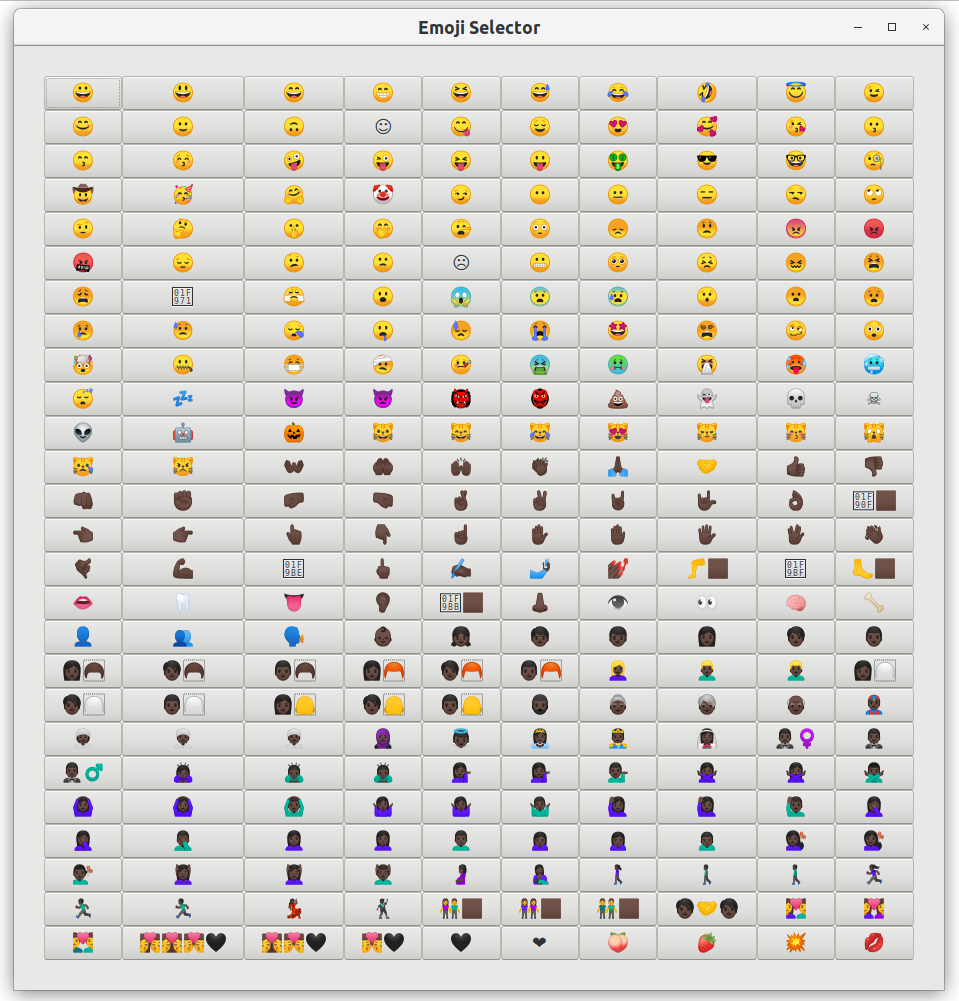
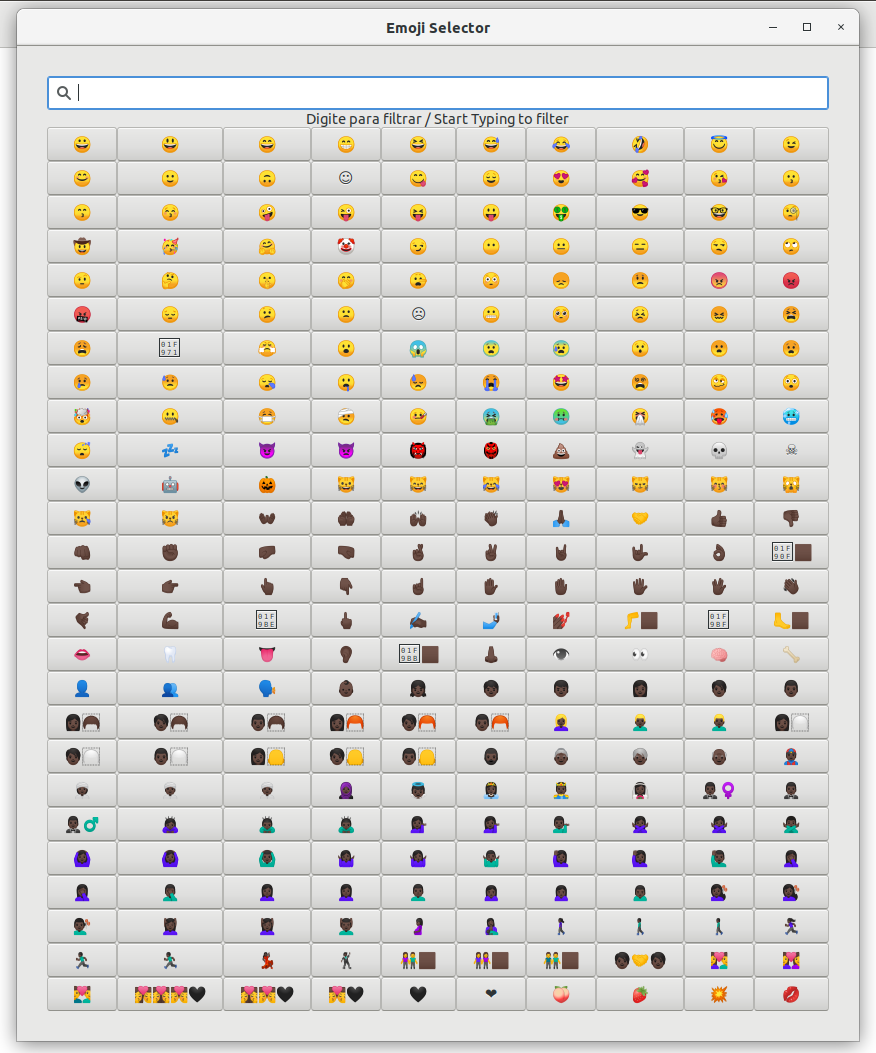
Adds TODO on README.md

Changed region(s): [[0.0, 0.0, 0.9863, 0.991]]

diff --git a/emojiSelector.c b/emojiSelector.c
@@ -1,5 +1,11 @@
 #include <gtk/gtk.h>
 
+typedef struct
+{
+    char emojiCode[27];
+    char description[256];
+} emoji;
+
 GtkClipboard *clipboard;
 
 static void
@@ -7,36 +13,28 @@ copy_to_clipboard (GtkWidget *widget,
                    gpointer   data)
 {
   gtk_clipboard_set_text (clipboard, (gchar *) data, -1);
-  g_print ("Copied %s  to clipboard\n", (gchar *) data);
-}
-
-static gboolean
-window_key_press_event_cb (GtkWidget *window,
-    GdkEvent *event,
-    GtkSearchBar *search_bar)
-{
-  return gtk_search_bar_handle_event (search_bar, event);
+  g_message ("Copied %s  to clipboard\n", (gchar *) data);
 }
 
 static void
-search_changed (GtkSearchEntry *entry,
-                   GtkLabel       *result_label)
+filter_results (GtkSearchEntry *entry,
+                GtkLabel       *result_label)
 {
   const char *text;
   text = gtk_entry_get_text (GTK_ENTRY (entry));
-  g_message ("search changed: %s", text);
-  gtk_label_set_text (result_label, text ? text : "");
+  g_message ("Filtering by: %s Found %i results", text, 0);
+  gtk_label_set_text (result_label, strcmp(text, "") != 0 ? text : "Digite para filtrar / Start Typing to filter");
 }
 
 static void
 activate (GtkApplication* app,
           gpointer        user_data)
 {
-  GtkWidget *window;
-  GtkWidget *emojisGrid;
-  GtkWidget *emoji;
+  GtkWidget      *window;
+  GtkWidget      *emojisGrid;
+  GtkWidget      *emoji;
   GtkSearchEntry *search_entry;
-  GtkWidget *label;
+  GtkWidget      *label;
 
   char    arrayEmojis[260][27] = {"😀","😃","😄","😁","😆","😅","😂","🤣","😇","😉","😊","🙂","🙃","☺","😋","😌","😍","🥰","😘","😗","😙","😚","🤪","😜","😝","😛","🤑","😎","🤓","🧐","🤠","🥳","🤗","🤡","😏","😶","😐","😑","😒","🙄","🤨","🤔","🤫","🤭","🤥","😳","😞","😟","😠","😡","🤬","😔","😕","🙁","☹","😬","🥺","😣","😖","😫","😩","🥱","😤","😮","😱","😨","😰","😯","😦","😧","😢","😥","😪","🤤","😓","😭","🤩","😵","🥴","😲","🤯","🤐","😷","🤕","🤒","🤮","🤢","🤧","🥵","🥶","😴","💤","😈","👿","👹","👺","💩","👻","💀","☠","👽","🤖","🎃","😺","😸","😹","😻","😼","😽","🙀","😿","😾","👐🏿","🤲🏿","🙌🏿","👏🏿","🙏🏿","🤝","👍🏿","👎🏿","👊🏿","✊🏿","🤛🏿","🤜🏿","🤞🏿","✌🏿","🤘🏿","🤟🏿","👌🏿","🤏🏿","👈🏿","👉🏿","👆🏿","👇🏿","☝🏿","✋🏿","🤚🏿","🖐🏿","🖖🏿","👋🏿","🤙🏿","💪🏿","🦾","🖕🏿","✍🏿","🤳🏿","💅🏿","🦵🏿","🦿","🦶🏿","👄","🦷","👅","👂🏿","🦻🏿","👃🏿","👁","👀","🧠","🦴","👤","👥","🗣","👶🏿","👧🏿","🧒🏿","👦🏿","👩🏿","🧑🏿","👨🏿","👩🏿🦱","🧑🏿🦱","👨🏿🦱","👩🏿🦰","🧑🏿🦰","👨🏿🦰","👱🏿♀","👱🏿","👱🏿♂","👩🏿🦳","🧑🏿🦳","👨🏿🦳","👩🏿🦲","🧑🏿🦲","👨🏿🦲","🧔🏿","👵🏿","🧓🏿","👴🏿","👲🏿","👳🏿♀","👳🏿","👳🏿♂","🧕🏿","👼🏿","👸🏿","🤴🏿","👰🏿","🤵🏿♀","🤵🏿","🤵🏿♂","🙇🏿♀","🙇🏿","🙇🏿♂","💁🏿♀","💁🏿","💁🏿♂","🙅🏿♀","🙅🏿","🙅🏿♂","🙆🏿♀","🙆🏿","🙆🏿♂","🤷🏿♀","🤷🏿","🤷🏿♂","🙋🏿♀","🙋🏿","🙋🏿♂","🤦🏿♀","🤦🏿","🤦🏿♂","🙎🏿♀","🙎🏿","🙎🏿♂","🙍🏿♀","🙍🏿","🙍🏿♂","💇🏿♀","💇🏿","💇🏿♂","💆🏿♀","💆🏿","💆🏿♂","🤰🏿","🤱🏿","🚶🏿♀","🚶🏿","🚶🏿♂","🏃🏿♀","🏃🏿","🏃🏿♂","💃🏿","🕺🏿","👫🏿","👭🏿","👬🏿","🧑🏿🤝🧑🏿","👩❤👨","👩❤👩","👨❤👨","👩❤💋👨","👩❤💋👩","👨❤💋👨","🖤","❤","🍑","🍓","💥","💋"};
 
@@ -66,7 +64,7 @@ activate (GtkApplication* app,
   gtk_grid_attach (GTK_GRID (emojisGrid), GTK_WIDGET(search_entry), 0, 0, 11, 1);
   gtk_grid_attach (GTK_GRID (emojisGrid), GTK_WIDGET(label), 0, 1, 11, 1);
   g_signal_connect (search_entry, "search-changed",
-      G_CALLBACK (search_changed), label);
+      G_CALLBACK (filter_results), label);
 
   gtk_widget_show_all (window);
   gtk_main();

diff --git a/README.md b/README.md
@@ -8,6 +8,12 @@ Emoji Selector is a small GTK application that copies emojis to your clipboard s
 
 This software as currently is is not intended for public use as it is not complete. For now it only features a handful emojis I need most to talk to my girlfriend
 
+# TODO
+   1. Store user create emojis sequences
+      Must add buttons for space and line-break to allow this...
+   2. Full Text Search by emoji description and tags
+   3. Import / Export user create emojis sequences
+
 # Compiling from source
 
 ``$ gcc `pkg-config --cflags gtk+-3.0` -o emojiSelector emojiSelector.c `pkg-config --libs gtk+-3.0` ``
